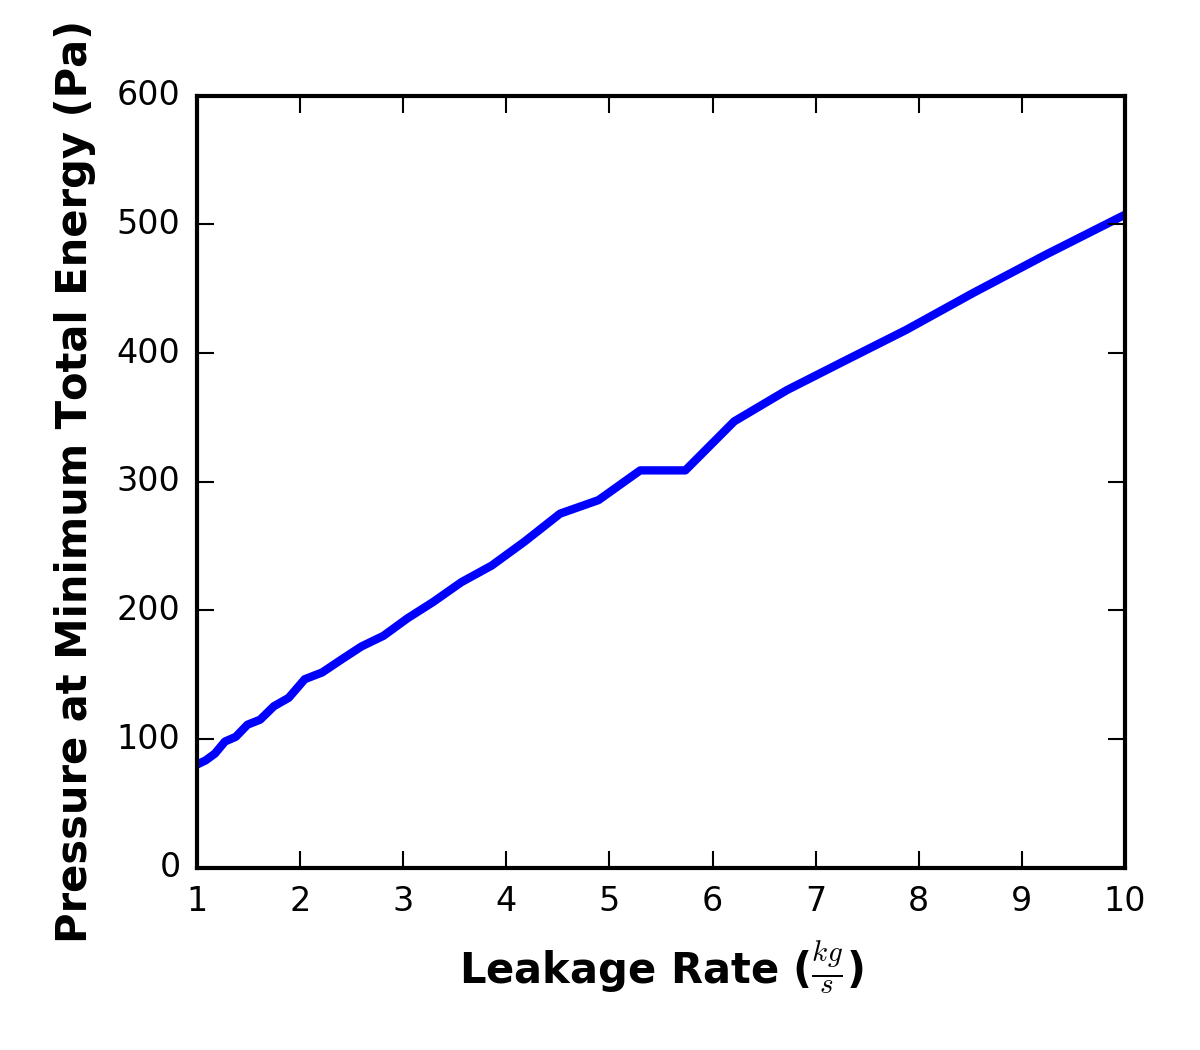
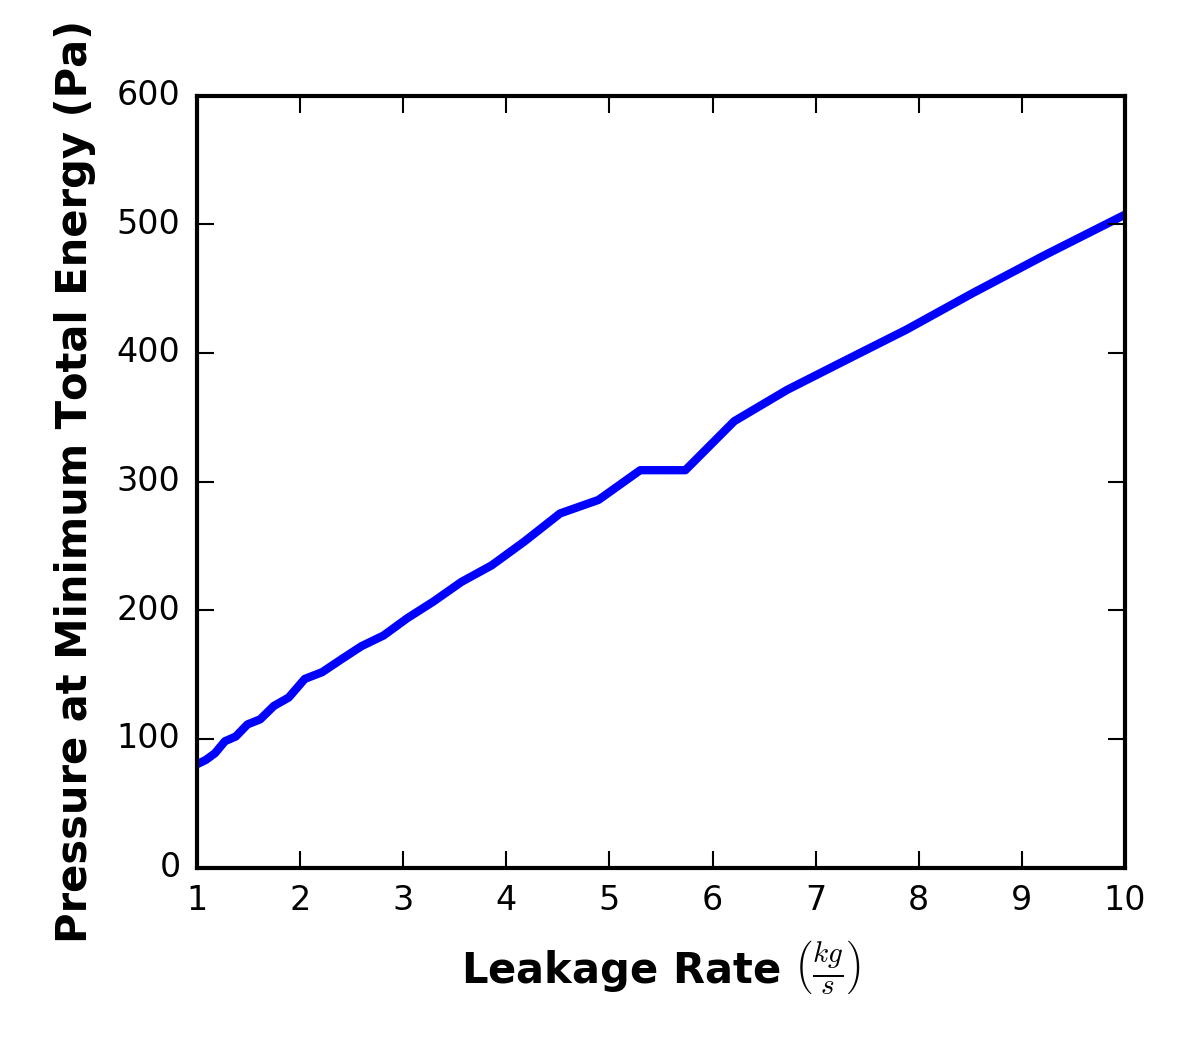
split leakage plots, sub figs in doc

Changed region(s): [[0.37, 0.8838, 0.74, 0.9448]]

diff --git a/paper/sections/results/leakage_rate.tex b/paper/sections/results/leakage_rate.tex
@@ -25,18 +25,24 @@ the ScipyOptimizer. The minimum value of total energy cost and the
 corresponding tube pressure will be recorded and plotted to evaluate the
 effects that leakage rate has on the system design variables.
 
-% \begin{figure}
-% 	\centering
-% 	\includegraphics{../../images/graphs/leakage_trades/leakage_vs_pressure.png}
-% 	\caption{Pressure at Minimum Energy Consumption vs. Leakage Rate}
-% 	\label{fig:pres_vs_leakage_rate}
-% \end{figure}
 \begin{figure}
-	\centering
-	\includegraphics{../../images/graphs/leakage_trades/leakage_rate.png}
-	\caption{Minimum Energy Cost vs. Leakage Rate}
-	\label{fig:pres_vs_leakage_rate}
+\centering
+\begin{subfigure}{.5\textwidth}
+  \centering
+  \includegraphics{../../images/graphs/leakage_trades/leakage_vs_pressure.png}
+  \caption{Pressure at Minimum Energy vs. Leakage Rate}
+  \label{fig:leak_v_p}
+\end{subfigure}%
+\begin{subfigure}{.5\textwidth}
+  \centering
+  \includegraphics{../../images/graphs/leakage_trades/leakage_vs_cost.png}
+  \caption{Cost vs. Leakage Rate}
+  \label{fig:leak_v_c}
+\end{subfigure}
+\caption{Sensitivity to Leakage Rate}
+\label{fig:pres_vs_leakage_rate}
 \end{figure}
+
 \Cref{fig:pres_vs_leakage_rate} shows the pressure at minimum energy
 consumption vs. the leakage rate of the tube. The tube pressure that optimizes
 cost increases as the leakage rate increases. This trend is reasonable because the

diff --git a/paper/images/trade_scripts/leakage_trades_plot.py b/paper/images/trade_scripts/leakage_trades_plot.py
@@ -24,7 +24,7 @@ plt.setp(ax1.get_yticklabels(), fontsize=8)
 plt.plot(m_dot, total_energy_cost/(1.0e6), 'r-', linewidth = 2.0)
 plt.xlabel(r'Leakage Rate $\left(\frac{kg}{s}\right)$', fontsize = 10, fontweight = 'bold')
 plt.ylabel('Minimum Energy Cost (Million USD)', fontsize = 10, fontweight = 'bold')
-plt.savefig('../graphs/leakage_trades/leakage_vs_energy.png', format = 'png', dpi = 300)
+plt.savefig('../graphs/leakage_trades/leakage_vs_cost.png', format = 'png', dpi = 300)
 plt.show()
 
 # # fig, ax1 = plt.subplots()
